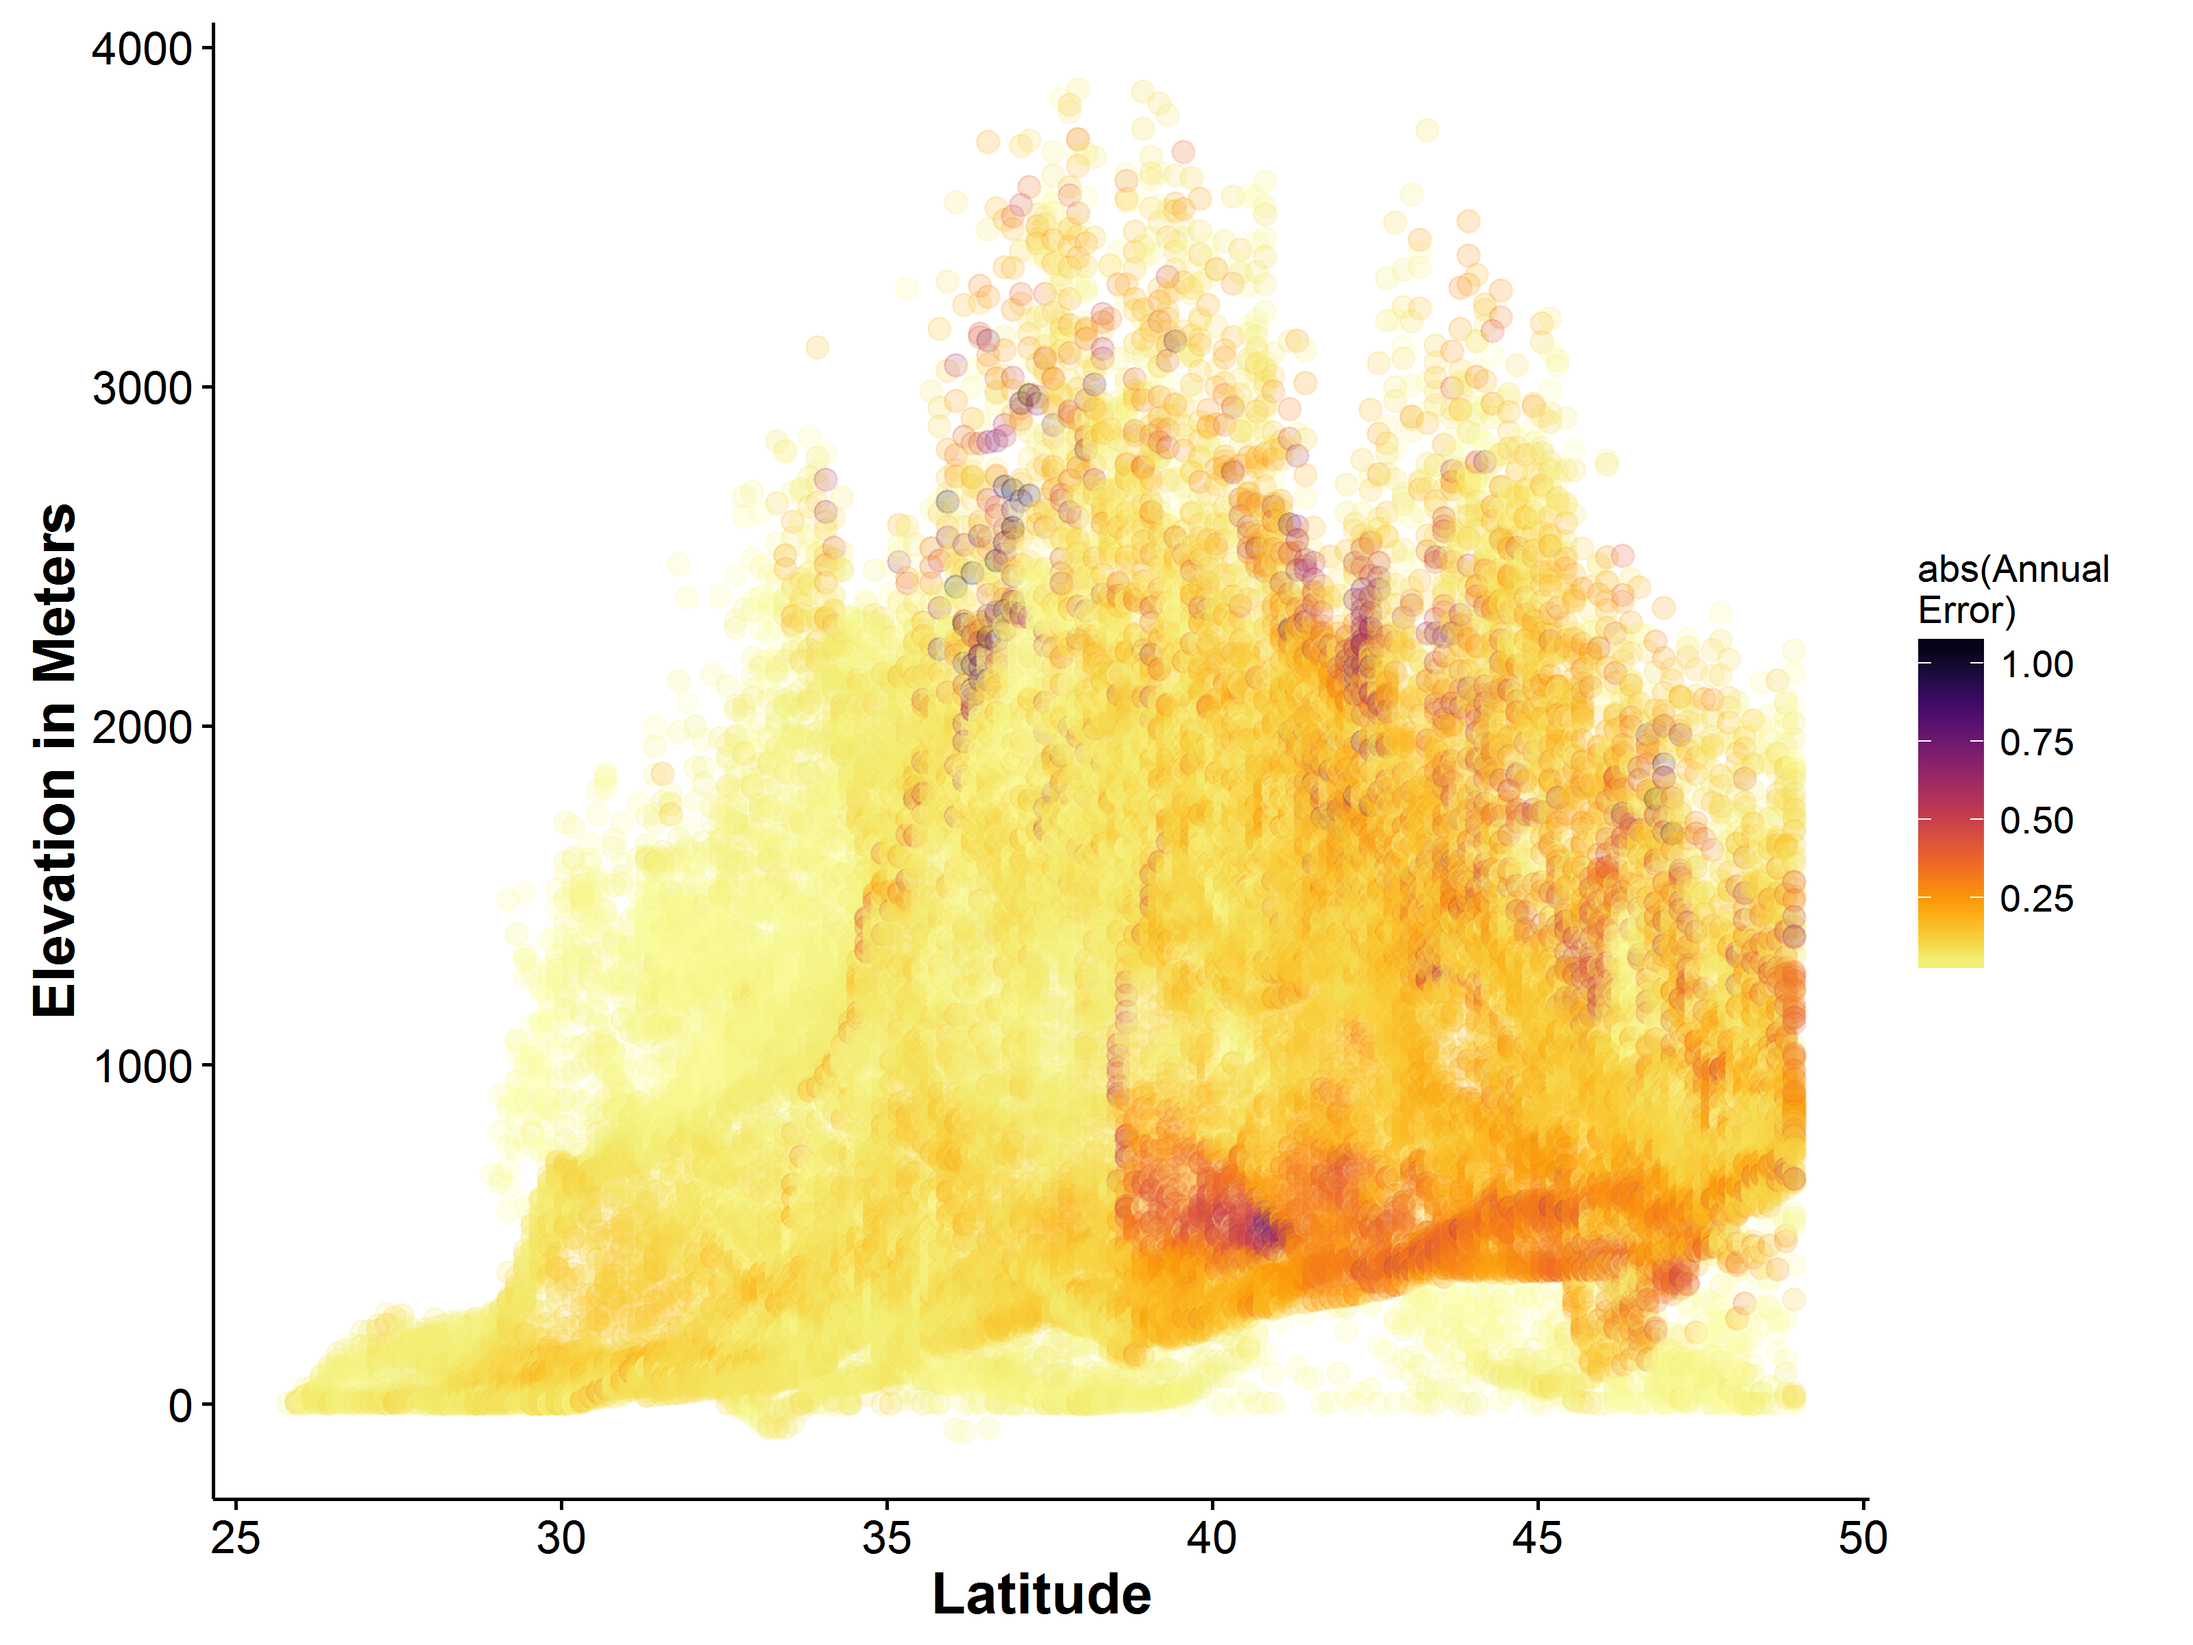
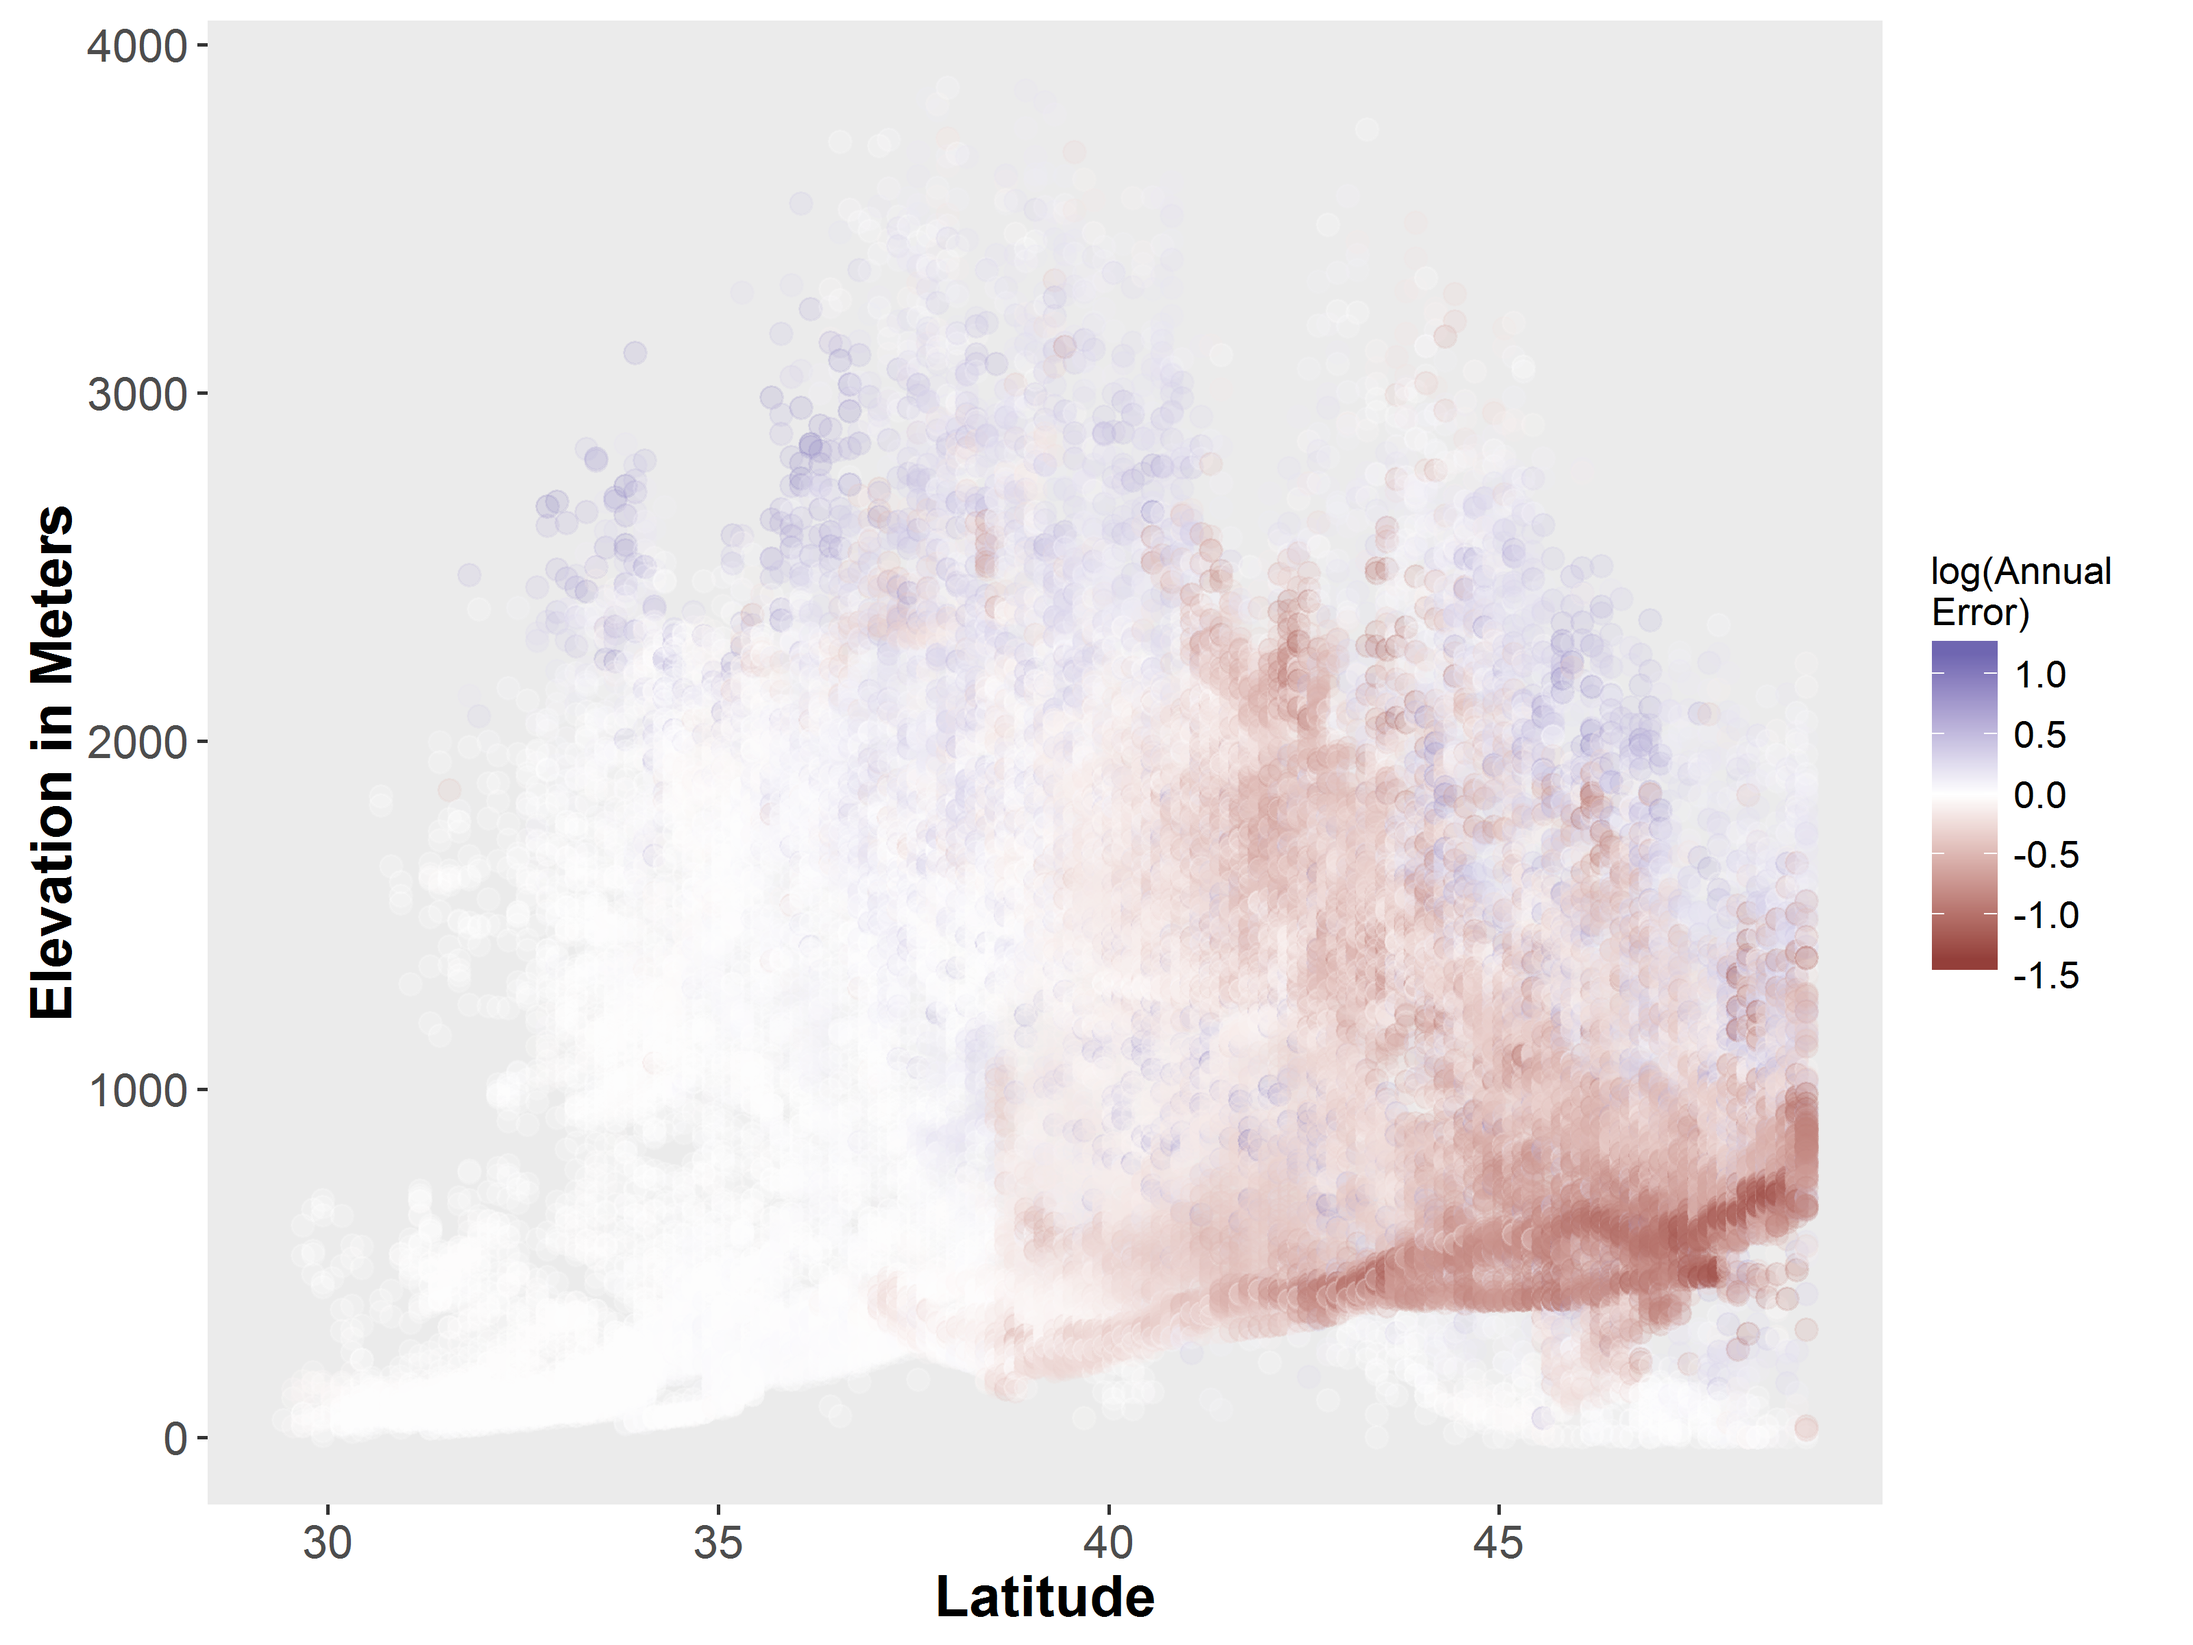
fixes to exploratory plots

diff --git a/HydroMapApp/include.html b/HydroMapApp/include.html
@@ -6,14 +6,13 @@
 <h1>Comparison of Hydrology variables from the GDO</h1>
  
 <br>
-<h2>Marian Talbert, Colin Talbert, Johnathan Friedmann, Imtiaz Rangwala, Candida Dewey</h2>
+<h2>Marian Talbert, Colin Talbert, Jonathan Friedman, Imtiaz Rangwala, Candida Dewes</h2>
 <h4>Background</h4>
-<br>
-<p>It recently became apparent that there was a problem with the Snow Water Equivilant (SWE) output from the VIC model 4.1.2 especially in and around North Dakota. Near this general region two seperate scientists alerted me to issues with unrealistic model output which lead to an investigation.  The data in question is available on the Green Data Oasis and described under Hydrology (<a href="http://gdo-dcp.ucllnl.org/downscaled_cmip_projections/dcpInterface.html">GDO</a>). The VIC model 4.1.2 was forced over the historic record with the gridded Maurer obserational data set (<a href="http://www.engr.scu.edu/~emaurer/gridded_obs/index_gridded_obs.html">Maurer</a>) as well as with CMIP5 climate model projections over a historic period and through the end of the 21st century.  An older version of the VIC model VIC 4.0.7 was also available on the GDO.  This model had similarly been foreced over the historic period with the gridded Maurer dataset as well as with the CMIP3 climate model projections and modeled historic data.  Previous efforts had provided a description of the differnt paramterizations of the two VIC models as well as a quantification of model specific differences though these primarilly focused on runoff and were not mapped across the entire spatial extent of the hydrology model output (<a href="http://gdo-dcp.ucllnl.org/downscaled_cmip_projections/techmemo/BCSD5HydrologyMemo.pdf">BCSD5 Hydrology Memo</a>) </p>
+<p>It recently became apparent that there were large discrepancies between the Snow Water Equivalent (SWE) output from the VIC model 4.1.2 and the VIC model 4.0.7 which are available from the <a href="http://gdo-dcp.ucllnl.org/downscaled_cmip_projections/dcpInterface.html">Green Data Oasis</a>.  The discrepancy was most notable in and around North Dakota. Near this general region two separate scientists alerted me to issues regarding unrealistic model output.  This led to a detailed comparison of the variables produced from these two VIC models.  The data in question is available on the Green Data Oasis and described in the about section under the Hydrology tab as well as in more detail in a separate memo (<a href="http://gdo-dcp.ucllnl.org/downscaled_cmip_projections/techmemo/BCSD5HydrologyMemo.pdf">BCSD5 Hydrology Memo</a>) and thus will be described only briefly here. The VIC model 4.1.2 was updated from the older VIC version 4.0.7 model.  Both models were forced over the historic record with the gridded <a href="http://www.engr.scu.edu/~emaurer/gridded_obs/index_gridded_obs.html">Maurer</a> observational data set and both were additionally forced with hind-cast and future projections of CMIP model output to generate hydrology model projections based on projected climate conditions.  As the VIC model versions were updated so were the CMIP model ensembles thus VIC 4.0.7 was utilized to generate hydrology projections associated with CMIP3 and VIC 4.1.2 was used to generate projections associated with CMIP5.  Previous efforts had provided a description of the change in the paramterizations of the two VIC models as well as a quantification of model specific differences though these primarily focused on only the runoff variable and were not mapped across the entire spatial extent of the hydrology model output (<a href="http://gdo-dcp.ucllnl.org/downscaled_cmip_projections/techmemo/BCSD5HydrologyMemo.pdf">BCSD5 Hydrology Memo</a>) </p>
 
-<h4> Methods <h4>
-<br>
-<p> Because both models were forced over the historic period with the Maurer gridded observational dataset we were able to compare the two VIC models while controling for other sources of variation.  Initial mapping efforts reavealed extreme discrepancies especially in SWE for which over large swaths of the United States one model would report a SWE value three or more times that of the other VIC. Discrepancies were only slightly less pronouced for Runoff and Soil Moisture Content (SMC).  In an effort to determine which of the VIC models was reporting more realistic SWE values we downloaded the mothly data for all <a href="http://www.wcc.nrcs.usda.gov/snow/">SNOTEL</a> stations across the United States as well as Satelite data output on SWE from the National Snow and Ice Data Center.  We could not find a strong relationship between the Satelite SWE output and any of the other data sources. <img src="C:\Users\mtalbert\Desktop\HydrologyProblem\HydroCode\HydroMapApp\www\PairsPlotLinesForStates.png" alt="PairsPlot" style="width:600px;height:600px;">
+<h4> Methods </h4>
+<p> Because both models were forced over the historic period with the Maurer gridded observational dataset we were able to compare the two VIC models while controlling for other sources of variation.  Given the strongly skewed distribution of the variables output from the model, we elected to consider the ratio of the model's output after adding a constant to the numerator and denominator.  The skewed distribution of the variables led to a situation in which the raw difference between precipitation related variables was large enough in wet regions such as the north west to completely obscured differences throughout the rest of the modeled region (the difference was highly correlated with the absolute value of the variable itself).  Utilizing the ratio of the model output corrects the scale issue but introduces a new issue with random noise as the numerator and denominator approach zero thus necessitating the need for addition of a small constant to each. When considering the ratio of the variables the appropriate scale for plotting is the log scale which results in symetry for the situation in which one model is twice the other this issue has been discussed and resolved by <a href="http://aje.oxfordjournals.org/content/early/2011/06/29/aje.kwr156.long">others</a>.</p>
 
- and it became apprent that the areas of largest model discrepancy between the two VICs were spatially distant from the SNOTEL stations.  This made it difficult to make a determinitaiton as to the skill of either VIC model SWE output realtive to other data sources. </p>
+<p>
+Initial mapping efforts revealed extreme discrepancies especially in SWE for which over large swaths of the United States one model would report a SWE value three or more times that of the other VIC. Discrepancies were only slightly less pronounced for Runoff and Soil Moisture Content (SMC).  In an effort to determine which of the VIC models was reporting more realistic SWE values we downloaded the monthly data for all <a href="http://www.wcc.nrcs.usda.gov/snow/">SNOTEL</a> stations across the United States as well as Satellite data output on SWE from the National Snow and Ice Data Center.  We could not find a strong relationship between the Satellite SWE output and any of the other data sources.  This could be due to the extremely coarse spatial resolution of the former relative to the latter or due to the fact that values were recorded mid-month rather than at the start of each month.  It became apparent that the areas of largest model discrepancy between the two VICs were spatially distant from the SNOTEL stations.  This made it difficult to make a determination as to the skill of either VIC model SWE output relative to other data sources.  There were strong relationships between the ratio of the two models and Latitude, Longitude, and Elevation as well as the interaction between these terms with VIC 4.0.7 being substantially larger in the higher Latitude lower elevation regions except in the western most locations and VIC 4.1.2 being substantially larger at the high elevations and along the west coast.  </p>
 
